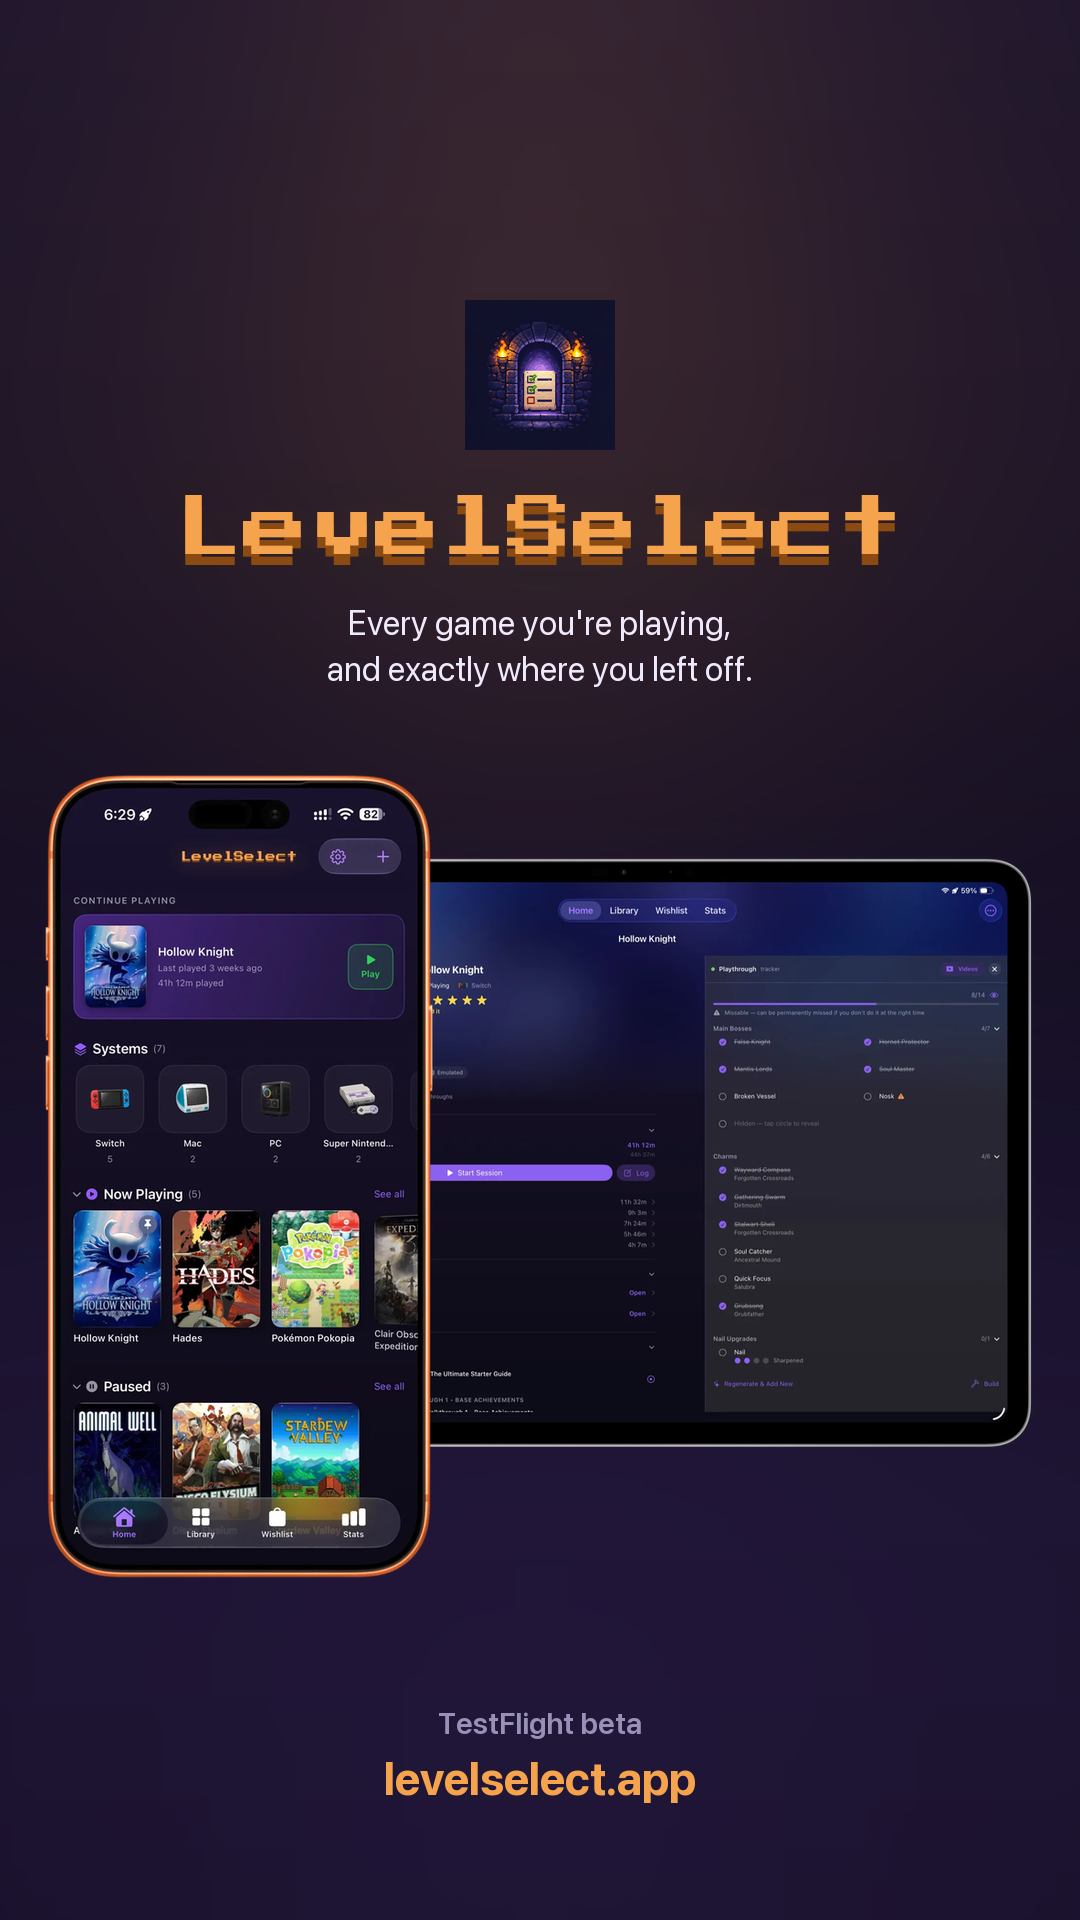
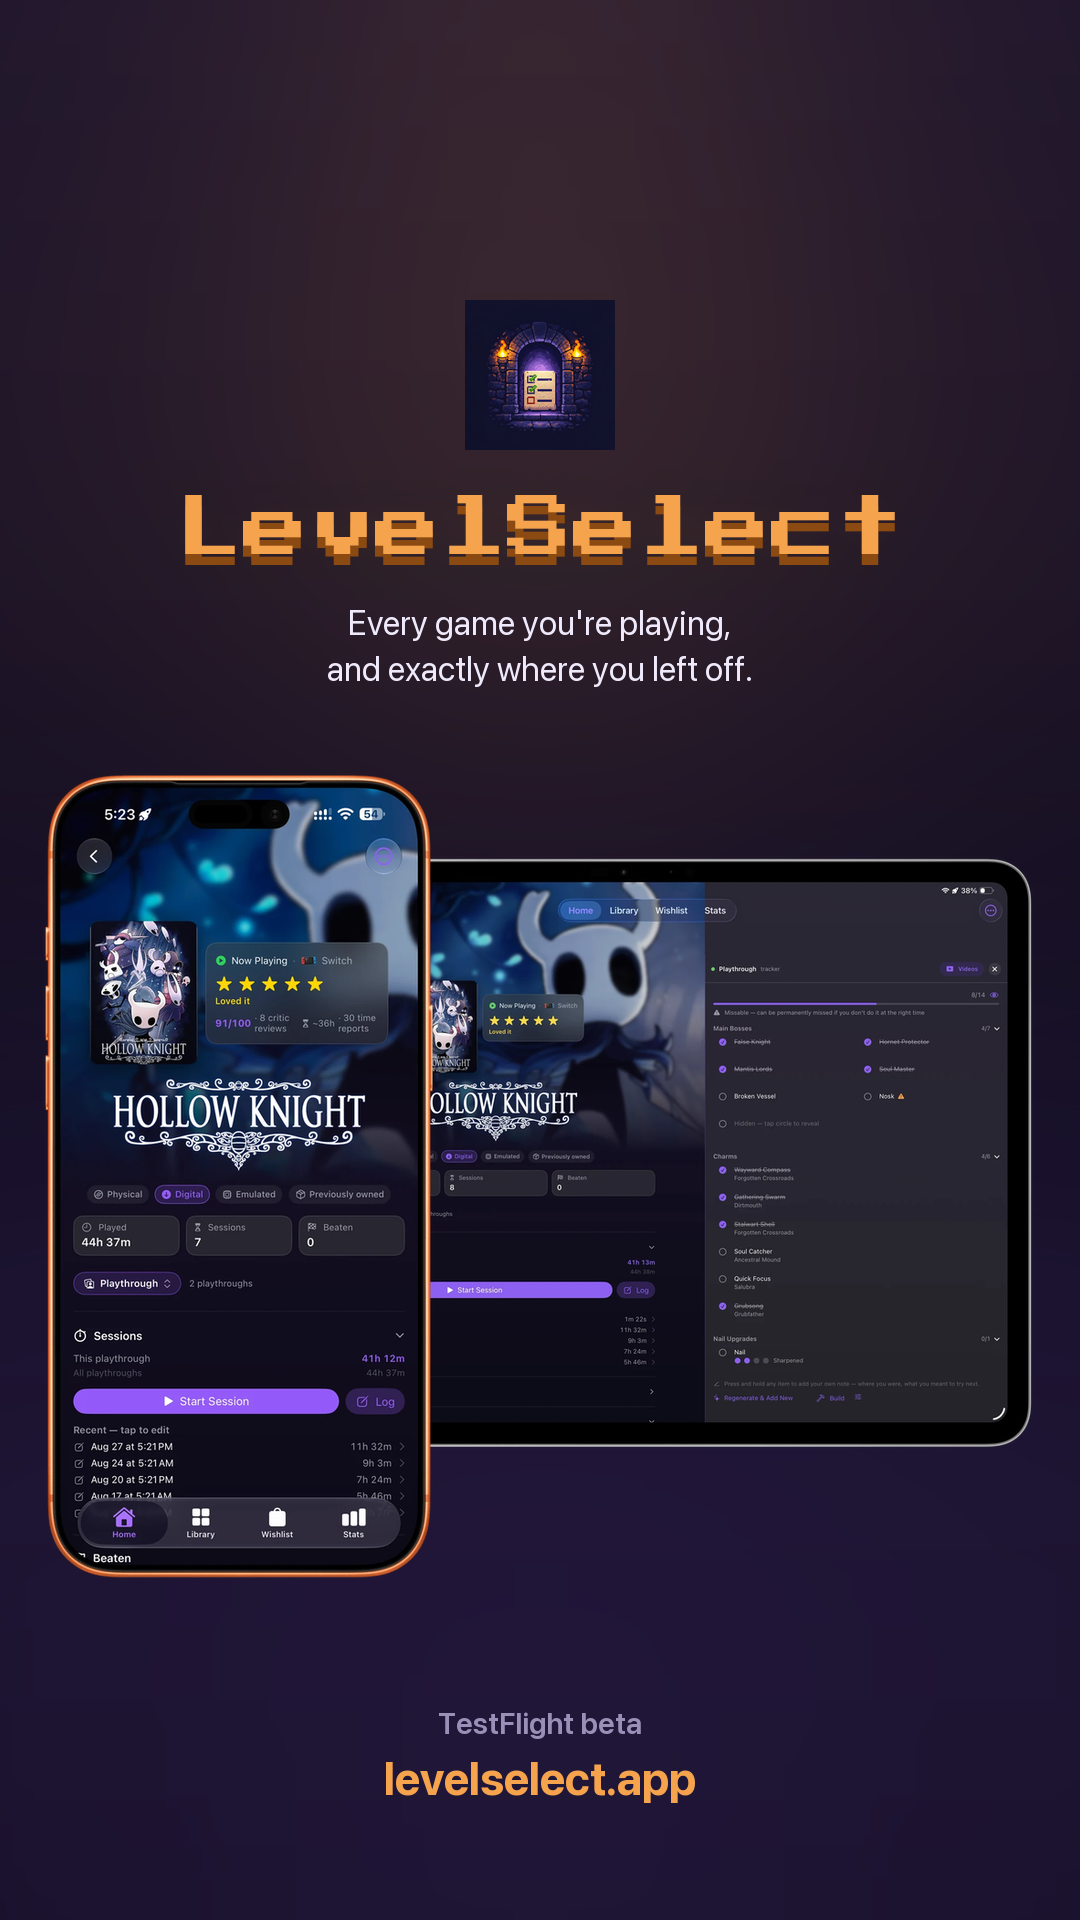
Rebuild the social images on the new game page
The generator was checked in for exactly this — "so the set can be
regenerated when the screenshots or the pitch change rather than being
three files nobody remembers how to remake." It sat in site/scripts as
Python, which is why my first search for it (looking for .mjs and .js)
came up empty and I told Tim they were hand-composed. They weren't.

The phone was the Home shelf, which is a dense grid of small covers —
legible on the site, mush in a link thumbnail. It's the Hollow Knight
page now, whose logo survives being shrunk to a Reddit preview, which is
the whole job these images have. Both shot names are constants at the top
with a note to keep them in step with the hero, since the pairing only
works while it matches the page it links to.

All six regenerate: og and og-2up, story and story-2up, square and
square-2up. Checked the square, which is where text and art collided
once before — the budgeting still holds with a taller phone shot.

Changed region(s): [[0.0306, 0.4062, 0.9472, 0.8125], [0.6417, 0.7188, 0.9167, 0.75]]

diff --git a/site/scripts/make-social-images.py b/site/scripts/make-social-images.py
@@ -28,6 +28,10 @@ TORCH_DEEP  = (138, 74, 18)
 INK         = (239, 234, 251)
 MUTED       = (153, 144, 184)
 
+# Keep these in step with the hero in src/pages/index.astro.
+PHONE_SHOT = "iphone-02-game-page-hollow.webp"
+IPAD_SHOT  = "ipad-01-split-tracker.webp"
+
 PIXEL = str(PUB / "assets" / "PressStart2P-Regular.ttf")
 SANS  = "/System/Library/Fonts/SFNS.ttf"
 
@@ -67,12 +71,15 @@ def devices(pair, height):
     keep text clear of the art — the square's URL used to land on top of the
     phone because nothing was measuring this.
     """
-    phone = shot("iphone-01-home-shelf.webp", height)
+    # Tracks the homepage hero deliberately — the point of this pairing is
+    # that a link preview looks like the page it links to. The phone was the
+    # Home shelf until build 32 rebuilt the game page around its own art;
+    # the header is what the app looks like now, so it leads here too.
+    phone = shot(PHONE_SHOT, height)
     if not pair:
         return phone
 
-    pad = shot("ipad-01-split-tracker.webp", round(height * 0.74))
-    phone = shot("iphone-01-home-shelf.webp", height)
+    pad = shot(IPAD_SHOT, round(height * 0.74))
     overlap = round(phone.width * 0.46)
     canvas = Image.new("RGBA", (phone.width + pad.width - overlap, height), (0, 0, 0, 0))
     # iPad behind and slightly high, phone in front-left — the arrangement the
